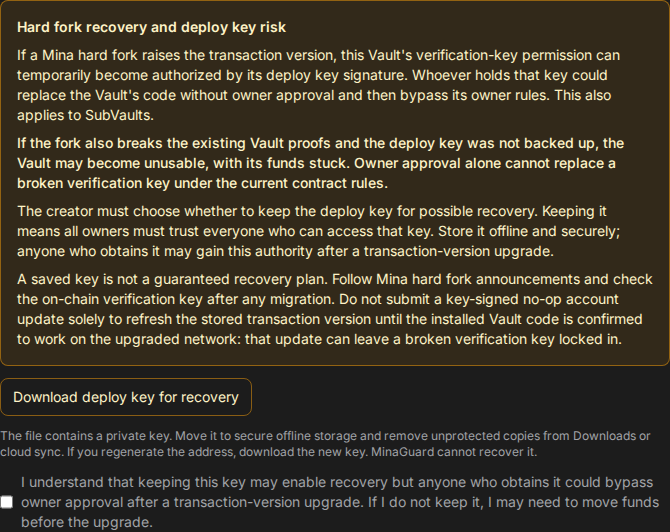
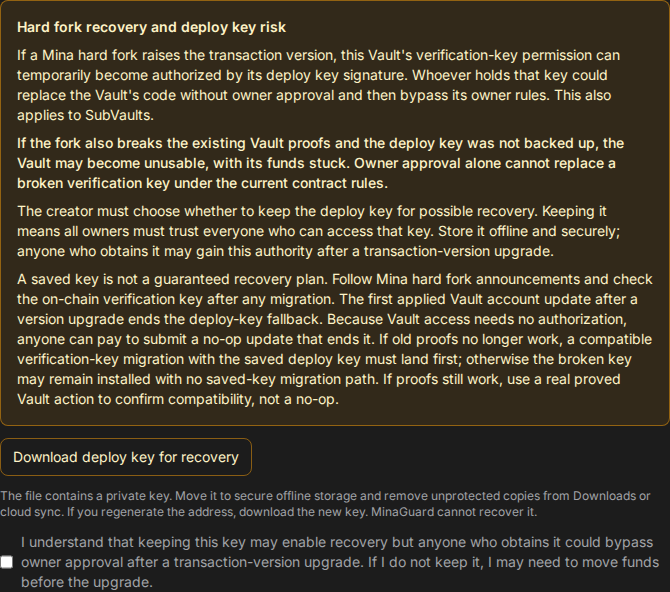
docs(vault): warn that anyone can seal post-fork key recovery

diff --git a/ui/components/VaultVerificationKeyMigration.tsx b/ui/components/VaultVerificationKeyMigration.tsx
@@ -66,7 +66,7 @@ export default function VaultVerificationKeyMigration({ address, walletAddress }
       ) : <>
         <p>This Vault records transaction version <code>{status?.setVerificationKeyTxnVersion}</code>, while this release expects <code>{GUARD_SET_VERIFICATION_KEY_TXN_VERSION}</code>. Its installed verification key already matches this release. The deploy-key signature fallback remains possible until the Vault receives an accepted account update.</p>
         <p>An ordinary proved Vault action, such as an owner-authorized proposal, can update the stored version if Mina accepts its existing proof. The app allows that action with this matching VK and canonical permission kinds. No deploy key or verification-key replacement is needed.</p>
-        <p>Do not submit a key-signed no-op to update the version. If Mina rejects the proof after the fork, stop and obtain fork-specific guidance and a reviewed compatible replacement VK release before using the saved deploy key.</p>
+        <p>Any fee payer can submit a no-op Vault update without the deploy key because Vault access needs no authorization. The first applied Vault update ends the fallback even if the VK stays unchanged. Use a real proved Vault action to confirm proof compatibility, not a no-op. If Mina rejects the proof, stop and obtain fork-specific guidance and a reviewed compatible replacement VK release before using the saved deploy key.</p>
         <div className="flex flex-wrap gap-3">
           <Link href="/transactions/new" className="rounded bg-amber-500 px-3 py-2 text-black">Create a Vault proposal</Link>
           <button type="button" disabled={busy} className="rounded border border-amber-500 px-3 py-2 disabled:opacity-50" onClick={async () => {
@@ -83,6 +83,7 @@ export default function VaultVerificationKeyMigration({ address, walletAddress }
     <section className="rounded-lg border border-amber-500/50 bg-amber-500/10 p-4 space-y-3 text-sm" aria-label="Verification key migration">
       <h2 className="font-semibold">Verification-key migration</h2>
       <p>This Vault records transaction version <code>{status?.setVerificationKeyTxnVersion ?? '?'}</code>; this reviewed release expects <code>{GUARD_SET_VERIFICATION_KEY_TXN_VERSION}</code>. The deploy key can replace the installed verification key during Mina&apos;s version fallback. This action bypasses owner voting. Confirm the release and key hash with every owner before proceeding.</p>
+      <p><strong>Migration must land before any other Vault account update.</strong> Any fee payer can submit a no-op update without the deploy key because Vault access needs no authorization. That update refreshes the stored version and ends the saved-key migration path, even if the installed VK cannot prove on the upgraded network.</p>
       <dl className="font-mono text-xs break-all space-y-1">
         <div>Installed VK: {status?.verificationKeyHash ?? '?'}</div>
         <div>Replacement VK: {targetHash}</div>

diff --git a/ui/components/VaultHardForkNotice.tsx b/ui/components/VaultHardForkNotice.tsx
@@ -21,10 +21,13 @@ export default function VaultHardForkNotice({ creating = false }: { creating?: b
       </p>
       <p>
         A saved key is not a guaranteed recovery plan. Follow Mina hard fork announcements
-        and check the on-chain verification key after any migration. Do not submit a
-        key-signed no-op account update solely to refresh the stored transaction
-        version until the installed Vault code is confirmed to work on the
-        upgraded network: that update can leave a broken verification key locked in.
+        and check the on-chain verification key after any migration. The first applied
+        Vault account update after a version upgrade ends the deploy-key fallback.
+        Because Vault access needs no authorization, anyone can pay to submit a no-op
+        update that ends it. If old proofs no longer work, a compatible verification-key
+        migration with the saved deploy key must land first; otherwise the broken key
+        may remain installed with no saved-key migration path. If proofs still work,
+        use a real proved Vault action to confirm compatibility, not a no-op.
       </p>
     </div>
   );

diff --git a/docs/security-audit-guide.md b/docs/security-audit-guide.md
@@ -191,7 +191,7 @@ attest an independently built deployment artifact.
 | 6 | **F-2026-19130: executors fund new transfer recipients.** The vault sends only approved transfer amounts. The executor pays the account-creation cost (currently 1 MINA per new recipient slot) and the transaction fee, without vault reimbursement. Account existence can change between proposal and execution. If no one pays, an approved transfer can delay higher-nonce proposals because execution requires the next nonce. Owners can execute it themselves or approve and execute a same-nonce replacement. The UI warns at proposal and approval, and estimates the creation cost again before online execution or offline signing. | Accepted residual liveness and executor-cost risk; no contract funding or nonce-ordering change; audit retest is not claimed |
 | 7 | **F-2026-19133: a root vault has no key-loss recovery path.** If fewer independently held owner keys remain available than the threshold, no proposal can lower the threshold, replace an owner, or move funds. Operators must choose an owner count above the threshold by a redundancy margin they accept, keep those keys independently controlled and recoverable, and understand that losing too many keys can permanently strand the root vault's funds. A child vault has parent-authorized reclaim/destroy paths; a root vault does not. | Accepted product design; no emergency recovery key or timelocked bypass is provided |
 | 8 | **Vault events are unauthenticated.** Events need no permission, so any account update can attach events to a vault. The indexer keeps only events whose emitting account update is `Proof`-authorized (the archive API's `authorizationKind`): those come from the vault's own methods, proved against its verification key, which admission already checks is canonical. Undecodable events from its own updates, and events that fail to apply, are recorded with `applyError` and no state change, so none of these can halt indexing or vanish silently. The signature-authorized `deployed` event is not indexed; nothing reads it. Residual: the filter relies on the network verifying proofs (a dev chain with proof verification disabled would accept a dummy proof), and an archive without `authorizationKind` (older than Archive-Node-API v0.0.8) makes indexing fail closed. Clients still check rebuilt stores against the chain before proving. | Mitigated; residual accepted |
-| 9 | **F-2026-19216 / F-2026-19225: transaction-version upgrades expose the deploy key; recovery uses that same trusted key.** Mina reinterprets `setVerificationKey: impossibleDuringCurrentVersion()` as signature-authorized once the stored version is older than the network version. A creator who kept the deploy key, or anyone who obtains it, may replace the vault circuit without owner approval. The creation flow offers an optional creation-time local key download and warns the creator; every vault detail page warns other owners. If a fork breaks the existing proofs and the deploy key was not backed up, the vault may become unusable with funds stuck. Owners who do not accept the key-holder trust must coordinate evacuation before a version upgrade, moving SubVault balances before the root balance. For an older-version vault with the same reviewed VK, the UI and backend allow an ordinary proved action to refresh the stored version if Mina accepts its proof; the UI then checks the on-chain result. The deploy-key fallback remains active until that action succeeds. If the installed VK differs from the reviewed replacement, the UI exports a separate v2 migration request; the MinaGuard offline CLI checks the pinned replacement VK by compiling the release, signs with the saved deploy and fee payer keys, and the UI checks the signed command and fresh node state before broadcast. This does not grant the owners a quorum-approved upgrade or guarantee a future fork will support either transaction. There is no proactive upgrade alert, automatic migration, or emergency evacuation workflow. | Disclosed proof path and key-backed migration path; underlying governance bypass remains an accepted creator-trust risk. Fork-specific compatibility and release hashes require review before use. |
+| 9 | **F-2026-19216 / F-2026-19225: transaction-version upgrades expose the deploy key; recovery uses that same trusted key.** Mina reinterprets `setVerificationKey: impossibleDuringCurrentVersion()` as signature-authorized once the stored version is older than the network version. A creator who kept the deploy key, or anyone who obtains it, may replace the vault circuit without owner approval. The creation flow offers an optional creation-time local key download and warns the creator; every vault detail page warns other owners. If a fork breaks the existing proofs and the deploy key was not backed up, the vault may become unusable with funds stuck. Owners who do not accept the key-holder trust must coordinate evacuation before a version upgrade, moving SubVault balances before the root balance. For an older-version vault with the same reviewed VK, the UI and backend allow an ordinary proved action to refresh the stored version if Mina accepts its proof; the UI then checks the on-chain result. Because `access` is `none`, any fee payer can also submit a no-op vault update that refreshes the version without proving anything. If proofs break, the saved-key VK migration must land before any such update, or the broken VK remains installed while this migration path closes. If the installed VK differs from the reviewed replacement, the UI exports a separate v2 migration request; the MinaGuard offline CLI checks the pinned replacement VK by compiling the release, signs with the saved deploy and fee payer keys, and the UI checks the signed command and fresh node state before broadcast. This does not grant the owners a quorum-approved upgrade or guarantee a future fork will support either transaction. There is no proactive upgrade alert, automatic migration, or emergency evacuation workflow. | Disclosed proof path and key-backed migration path; underlying governance bypass remains an accepted creator-trust risk. Fork-specific compatibility and release hashes require review before use. |
 | 10 | **A deployment can be griefed once per address.** The vault address is public once its deploy transaction reaches the mempool, and anyone can create the bare account first by paying into it. A deployment that declares a new account then fails with `Invalid_fee_excess`, costing the deployer the fee and proving time. Both clients now deploy into an existing bare account without the creation fee, so the address can be retried while its key is still available; an account that already has a verification key or app state is refused. A failed SubVault creation lifts the browser's vault lock after 20 minutes. | Accepted residual first-attempt exposure; pre-creating and confirming the account before deploy would remove it |
 
 Mina's [verification-key permission RFC](https://github.com/MinaProtocol/mina/blob/4.0.0-mainnet/rfcs/0052-verification-key-permissions.md)
@@ -200,12 +200,15 @@ specifies the signature fallback for an older stored transaction version. The
 `setPermissions: impossible()` has no transaction-version fallback. The
 exact migration behavior is determined for each protocol upgrade, so owners
 must check the announced fork plan before relying on either key recovery or
-pre-upgrade evacuation. The first successful account update on an older-version
-vault refreshes its stored transaction version, even if the verification key is
-unchanged. A key-signed no-op account update can therefore refresh the stored
-version while leaving a broken proof circuit installed. Do not use it as a recovery step
-without establishing post-fork proof compatibility; otherwise replace the
-verification key with a verified compatible key before that window closes.
+pre-upgrade evacuation. Mina refreshes the stored version on the first applied
+vault account update after an upgrade, even when the verification key is unchanged.
+Because vault `access` is `none`, anyone can pay for an authorization-free no-op
+vault update. After a proof-preserving fork that update ends the deploy-key
+fallback. After a proof-breaking fork it can leave the broken key installed and
+end the saved-key migration path before the deployer acts. A compatible
+verification-key migration signed with the saved deploy key must land before
+any other vault update. When the existing proofs work, use a real proved vault
+action to confirm compatibility rather than a no-op just to refresh the version.
 
 Operational and UI-level quirks (state staleness windows, preview-cache behavior) are tracked in
 [`KNOWN_ISSUES.md`](../KNOWN_ISSUES.md). Infrastructure risks and their mitigations live in the

diff --git a/README.md b/README.md
@@ -23,7 +23,7 @@ MinaGuard is a multisig wallet zkApp for Mina built with o1js, plus a Next.js UI
 - For transfers to new recipient accounts, the executor pays the account-creation cost and transaction fee; see the [accepted risk](docs/security-audit-guide.md#accepted-risks-and-known-limitations).
 - Indexed read API for contracts, owners, proposals, approvals, and raw events.
 - Deploy + setup UI flow with a creation-time local deploy-key download. The browser does not persist the key; the creator may retain the downloaded copy. A Mina transaction-version upgrade can make that key sufficient to replace the vault verification key without owner approval. If a fork breaks old proofs and no backup exists, funds may become inaccessible. See the [accepted risk](docs/security-audit-guide.md#accepted-risks-and-known-limitations).
-- For an older-version vault whose VK still matches this release, the detail page guides owners to submit an ordinary proved action and check that Mina refreshed the stored version. This works only if Mina accepts the existing proof; the deploy-key signature fallback remains active until then. If the installed VK differs from the reviewed replacement, the detail page can export a version 2 VK migration request. The MinaGuard offline CLI compiles and checks the replacement VK, signs with the saved deploy key and an offline fee payer key, and returns a transaction for the UI to validate and broadcast. A future fork still needs a reviewed compatible release and per-network VK hash before migration is attempted.
+- For an older-version vault whose VK still matches this release, the detail page guides owners to submit an ordinary proved action and check that Mina refreshed the stored version. This works only if Mina accepts the existing proof. Any fee payer can instead submit a no-op vault update that ends the deploy-key fallback, so a proved action is the safer compatibility check. If the installed VK differs from the reviewed replacement, the detail page can export a version 2 VK migration request. The MinaGuard offline CLI compiles and checks the replacement VK, signs with the saved deploy key and an offline fee payer key, and returns a transaction for the UI to validate and broadcast. If proofs break, that migration must land before any other vault update, including a third-party no-op. A future fork still needs a reviewed compatible release and per-network VK hash before migration is attempted.
 - Child reservations validate governance bounds and initialized root-parent state; successful child setup clears the consumed reservation hash.
 - Child allocations require initialized recipients bound to the sending parent. Complete child setup before funding; ordinary transfers and external deposits to uninitialized children remain unrecoverable until setup succeeds. See [safe child funding](docs/contracts-audit-guide.md#safe-child-funding).
 

diff --git a/docs/ui-audit-guide.md b/docs/ui-audit-guide.md
@@ -426,7 +426,11 @@ allow this narrow case when every permission kind is canonical and the only
 permission mismatch is the older version. They continue to report that mismatch
 because the deploy-key signature fallback remains active until an account
 update succeeds. The panel links to proposal creation and can recheck the
-on-chain version; it does not submit a key-signed no-op.
+on-chain version; it does not submit a no-op. Because vault `access` is `none`,
+any fee payer can submit an authorization-free no-op update. The first applied
+vault update refreshes the version and ends the deploy-key fallback even if the
+VK is unchanged; the proved action is advised because it confirms the installed
+circuit still works after the fork.
 
 If the installed VK differs from the release-pinned replacement VK, the detail
 page instead offers deploy-key migration. It displays both hashes, exports a
@@ -435,6 +439,10 @@ The panel warns that a maintainer must publish a fork-compatible CLI release
 first. The browser does not check release availability or authenticate the
 offline binary; users must independently verify the release, checksums, and
 per-network VK hash before entering the saved deploy key.
+If old proofs fail, the signed VK migration must land before any other vault
+account update. A third party can pay for a no-op update that refreshes the
+stored version first, leaving the broken VK installed and ending this saved-key
+migration path.
 The import checks the response binding and command shape, then rechecks the
 installed VK, version, and permissions against the Mina node before broadcast.
 After inclusion, the user can check the on-chain VK hash, stored version, and

diff --git a/docs/offline-audit-guide.md b/docs/offline-audit-guide.md
@@ -286,6 +286,12 @@ instead guides an ordinary owner-authorized proved action, which refreshes the
 version only if Mina accepts the proof. Migration shares request version 2 with
 owner actions but has a distinct `migrate-verification-key` action and schema;
 its signed response is version 2, while owner signed responses remain version 1.
+Because vault `access` is `none`, any fee payer can submit a no-op vault account
+update after a fork. The first applied update refreshes the stored version.
+If existing proofs fail, a compatible signed VK migration must land before any
+other vault update; a third-party no-op can otherwise end the saved-key
+migration path with the broken VK still installed. For a proof-preserving fork,
+use a real proved action to confirm compatibility rather than a no-op.
 The request binds the
 vault and fee payer addresses, node account snapshots, installed VK hash and
 version, and the release-pinned replacement VK hash and version. It contains

diff --git a/docs/contracts-audit-guide.md b/docs/contracts-audit-guide.md
@@ -579,6 +579,10 @@ before displaying, funding, proposing, approving, or executing for an account.
 An older `setVerificationKey.txnVersion` is the sole admitted mismatch when the VK
 still matches the reviewed release; the deploy-key fallback remains active until
 an accepted account update refreshes the version.
+With `access: none`, an authorization-free no-op vault update can be submitted
+by any fee payer and refresh the stored version without changing the VK. After
+a proof-breaking fork, that update can close the saved-key VK migration path
+before the deployer migrates, leaving the broken key installed.
 The browser must obtain the actual vector directly from its configured Mina node and compare it
 with a build-time canonical value, rather than trusting an indexer to supply both sides.
 The offline CLI cannot perform this authentication because its bundle is supplied by an untrusted
